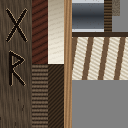
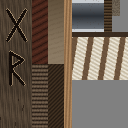
Arc v3b : bras d'arc quasi hors champ, corne assombrie, suite du geste de la main de corde, traînée en fondu près de l'œil

Changed region(s): [[0.375, 0.0, 0.5, 0.5]]

diff --git a/sources_blender/scripts/arc_chasseur.py b/sources_blender/scripts/arc_chasseur.py
@@ -140,11 +140,11 @@ def peindre_cordelette():
 
 def peindre_corne():
     def f(u, v, x, y):
-        base = mix(hexc("#a89c86"), hexc("#ece6d6"), min(1.0, v * 1.4))
+        base = mix(hexc("#615848"), hexc("#897f70"), min(1.0, v * 1.4))   # v3b : corne assombrie (pointe vue de près, trop claire la nuit)
         stries = 0.08 * math.sin(y * 1.3 + x * 0.4)
         c = mix(base, hexc("#5e4a34"), max(0.0, stries + bruit(0.05)))
         if v > 0.85:
-            c = mix(c, hexc("#f6f2e8"), 0.4)
+            c = mix(c, hexc("#8f8678"), 0.4)
         return c
     peindre(R_CORNE, f)
 
